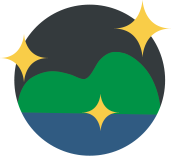
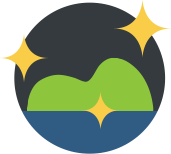
[#68570426] change slide-1 layout

diff --git a/app/assets/stylesheets/app.css.sass b/app/assets/stylesheets/app.css.sass
@@ -10,7 +10,7 @@ body
   text-align: center
 
 [class^="slide-"]
-  padding: 2em 0
+  padding: 2em 0 1em 0
 
 .wraper
   +grid-column(12)
@@ -18,12 +18,12 @@ body
     +grid-column(12, true, true)
 
 .slide-1
-  background: image-url("slide-1-bg.png") center bottom repeat-x #046930
+  background: image-url("bg-slide-01.jpg") center top repeat-x #046930
   color: #A8CB70
   img.meurio-eu-faco
     margin-bottom: 3em
   .step
-    margin-bottom: 2em
+    margin-bottom: 1em
     +grid-column(4)
     img
       margin-bottom: 1em
